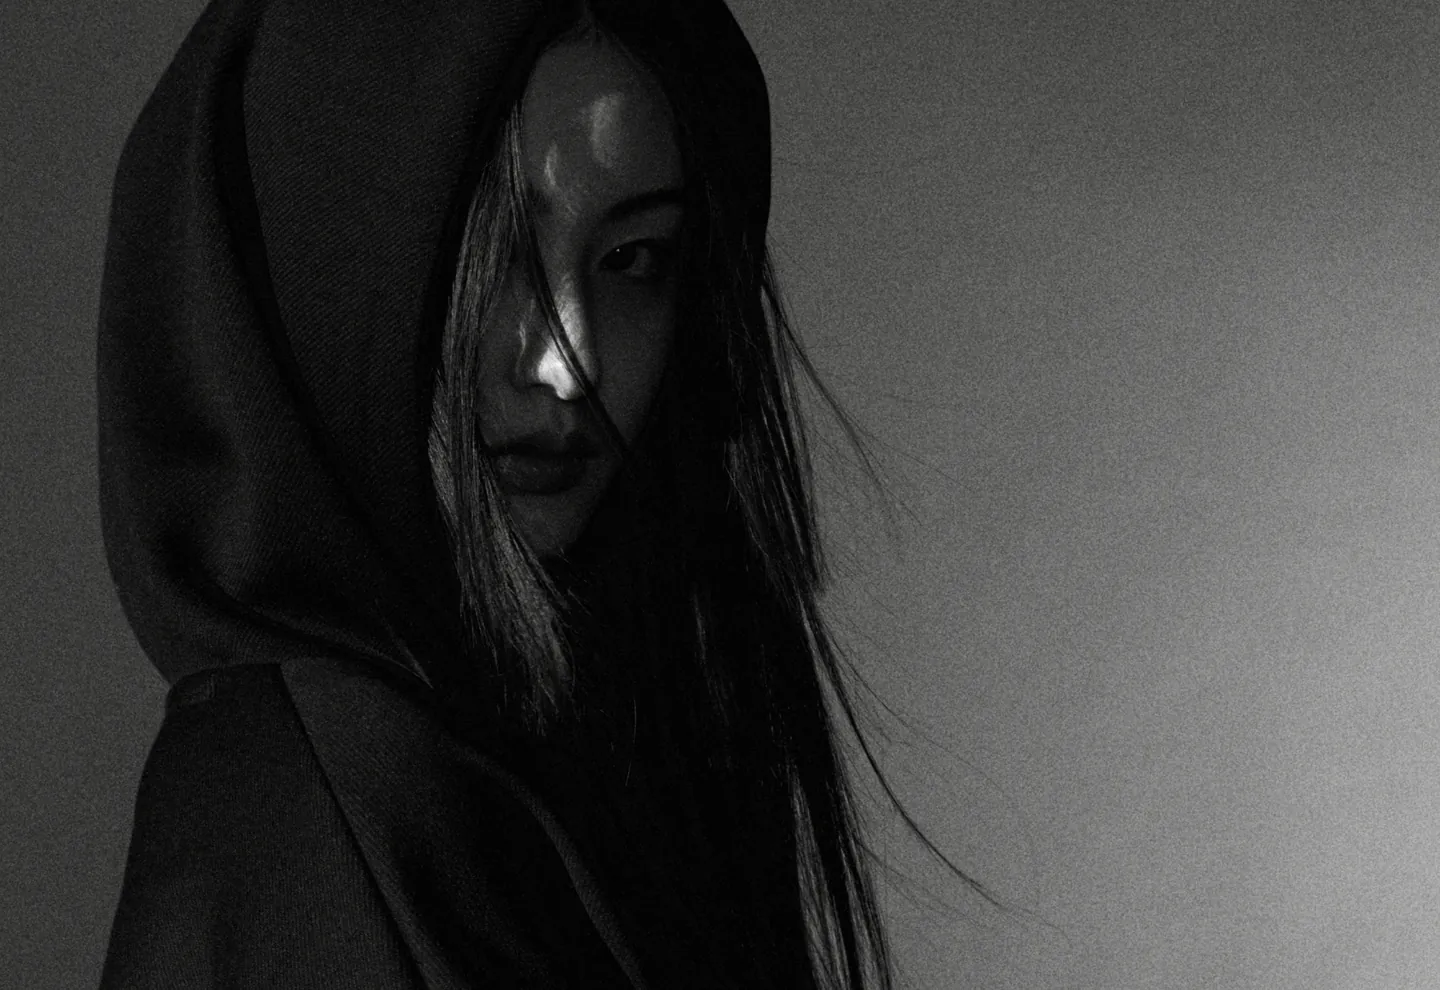
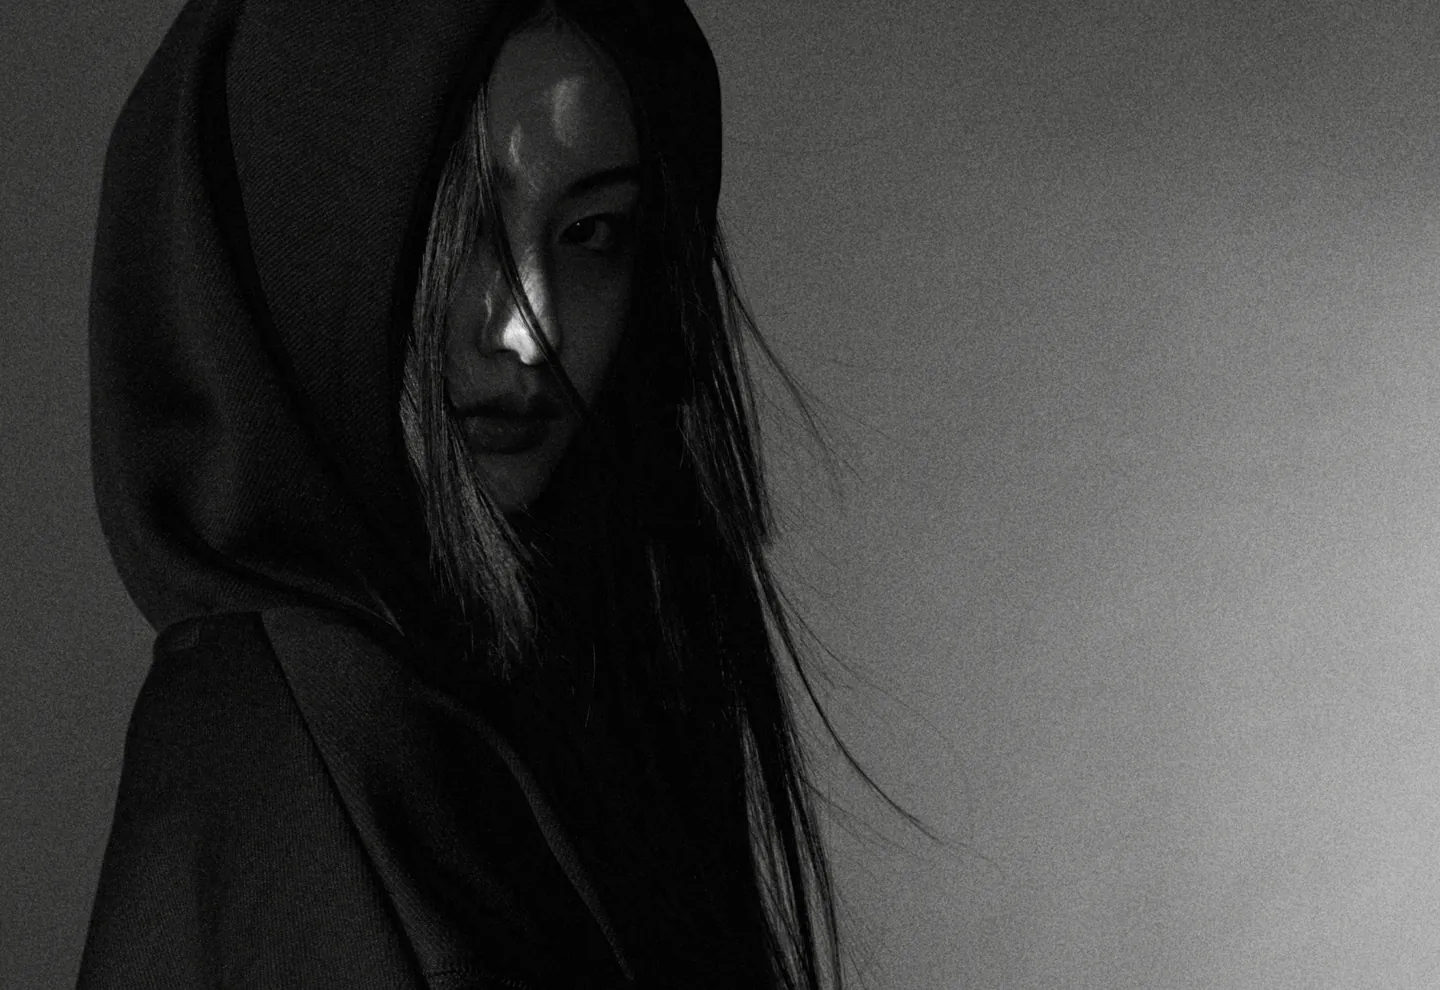
Key visual: new crops for shots 1–4

diff --git a/jp/index.html b/jp/index.html
@@ -45,7 +45,7 @@
   <link rel="stylesheet" href="https://cdn.jsdelivr.net/gh/orioncactus/pretendard@v1.3.9/dist/web/static/pretendard.min.css" />
   <link rel="stylesheet" href="https://fonts.googleapis.com/css2?family=Noto+Sans+JP:wght@400&display=swap" />
   <link rel="stylesheet" href="https://cdn.jsdelivr.net/gh/orioncactus/pretendard@v1.3.9/dist/web/static/pretendard-jp.min.css" />
-  <link rel="stylesheet" href="../style.css?v=20261124132707" />
+  <link rel="stylesheet" href="../style.css?v=20261124132940" />
   <script type="importmap">{ "imports": { "three": "https://unpkg.com/three@0.160.0/build/three.module.min.js" } }</script>
   <script>
     // The intro plays until it has been seen through once in this browsing
@@ -134,7 +134,7 @@
           <img src="../img/kv-slide-1@2x.webp" srcset="../img/kv-slide-1@1x.webp 1440w, ../img/kv-slide-1@2x.webp 2400w" sizes="100vw" width="2400" height="1650" alt="" class="kv__slide" style="--x:55%" fetchpriority="high" />
           <img data-src="../img/kv-slide-2@2x.webp" data-srcset="../img/kv-slide-2@1x.webp 1440w, ../img/kv-slide-2@2x.webp 2400w" sizes="100vw" width="2400" height="1650" alt="" class="kv__slide" style="--x:62%" />
           <img data-src="../img/kv-slide-3@2x.webp" data-srcset="../img/kv-slide-3@1x.webp 1440w, ../img/kv-slide-3@2x.webp 2400w" sizes="100vw" width="2400" height="1650" alt="" class="kv__slide" style="--x:40%" />
-          <img data-src="../img/kv-slide-4@2x.webp" data-srcset="../img/kv-slide-4@1x.webp 1440w, ../img/kv-slide-4@2x.webp 2400w" sizes="100vw" width="2400" height="2082" alt="" class="kv__slide" style="--x:50%" />
+          <img data-src="../img/kv-slide-4@2x.webp" data-srcset="../img/kv-slide-4@1x.webp 1440w, ../img/kv-slide-4@2x.webp 2400w" sizes="100vw" width="2400" height="1650" alt="" class="kv__slide" style="--x:50%" />
           <img data-src="../img/kv-slide-5@2x.webp" data-srcset="../img/kv-slide-5@1x.webp 1440w, ../img/kv-slide-5@2x.webp 2400w" sizes="100vw" width="2400" height="1650" alt="" class="kv__slide" style="--x:55%" />
         </div>
       </div>
@@ -315,7 +315,7 @@
   </main>
 
   <script src="https://cdn.jsdelivr.net/npm/lenis@1.3.26/dist/lenis.min.js"></script>
-  <script src="../main.js?v=20261124132707"></script>
-  <script type="module" src="../intro/intro.js?v=20261124132707" onerror="window.aansSkipIntro && window.aansSkipIntro()"></script>
+  <script src="../main.js?v=20261124132940"></script>
+  <script type="module" src="../intro/intro.js?v=20261124132940" onerror="window.aansSkipIntro && window.aansSkipIntro()"></script>
 </body>
 </html>

diff --git a/kr/index.html b/kr/index.html
@@ -43,7 +43,7 @@
   <link rel="preconnect" href="https://fonts.gstatic.com" crossorigin />
   <link rel="stylesheet" href="https://fonts.googleapis.com/css2?family=Oswald:wght@300;400;500&display=swap" />
   <link rel="stylesheet" href="https://cdn.jsdelivr.net/gh/orioncactus/pretendard@v1.3.9/dist/web/static/pretendard.min.css" />
-  <link rel="stylesheet" href="../style.css?v=20261124132707" />
+  <link rel="stylesheet" href="../style.css?v=20261124132940" />
   <script type="importmap">{ "imports": { "three": "https://unpkg.com/three@0.160.0/build/three.module.min.js" } }</script>
   <script>
     // The intro plays until it has been seen through once in this browsing
@@ -132,7 +132,7 @@
           <img src="../img/kv-slide-1@2x.webp" srcset="../img/kv-slide-1@1x.webp 1440w, ../img/kv-slide-1@2x.webp 2400w" sizes="100vw" width="2400" height="1650" alt="" class="kv__slide" style="--x:55%" fetchpriority="high" />
           <img data-src="../img/kv-slide-2@2x.webp" data-srcset="../img/kv-slide-2@1x.webp 1440w, ../img/kv-slide-2@2x.webp 2400w" sizes="100vw" width="2400" height="1650" alt="" class="kv__slide" style="--x:62%" />
           <img data-src="../img/kv-slide-3@2x.webp" data-srcset="../img/kv-slide-3@1x.webp 1440w, ../img/kv-slide-3@2x.webp 2400w" sizes="100vw" width="2400" height="1650" alt="" class="kv__slide" style="--x:40%" />
-          <img data-src="../img/kv-slide-4@2x.webp" data-srcset="../img/kv-slide-4@1x.webp 1440w, ../img/kv-slide-4@2x.webp 2400w" sizes="100vw" width="2400" height="2082" alt="" class="kv__slide" style="--x:50%" />
+          <img data-src="../img/kv-slide-4@2x.webp" data-srcset="../img/kv-slide-4@1x.webp 1440w, ../img/kv-slide-4@2x.webp 2400w" sizes="100vw" width="2400" height="1650" alt="" class="kv__slide" style="--x:50%" />
           <img data-src="../img/kv-slide-5@2x.webp" data-srcset="../img/kv-slide-5@1x.webp 1440w, ../img/kv-slide-5@2x.webp 2400w" sizes="100vw" width="2400" height="1650" alt="" class="kv__slide" style="--x:55%" />
         </div>
       </div>
@@ -311,7 +311,7 @@
   </main>
 
   <script src="https://cdn.jsdelivr.net/npm/lenis@1.3.26/dist/lenis.min.js"></script>
-  <script src="../main.js?v=20261124132707"></script>
-  <script type="module" src="../intro/intro.js?v=20261124132707" onerror="window.aansSkipIntro && window.aansSkipIntro()"></script>
+  <script src="../main.js?v=20261124132940"></script>
+  <script type="module" src="../intro/intro.js?v=20261124132940" onerror="window.aansSkipIntro && window.aansSkipIntro()"></script>
 </body>
 </html>

diff --git a/index.html b/index.html
@@ -44,7 +44,7 @@
   <link rel="stylesheet" href="https://fonts.googleapis.com/css2?family=Oswald:wght@300;400;500&display=swap" />
   <link rel="stylesheet" href="https://cdn.jsdelivr.net/gh/orioncactus/pretendard@v1.3.9/dist/web/static/pretendard.min.css" />
   <link rel="stylesheet" href="https://fonts.googleapis.com/css2?family=Inter:wght@400&display=swap" />
-  <link rel="stylesheet" href="style.css?v=20261124132707" />
+  <link rel="stylesheet" href="style.css?v=20261124132940" />
   <script type="importmap">{ "imports": { "three": "https://unpkg.com/three@0.160.0/build/three.module.min.js" } }</script>
   <script>
     // The intro plays until it has been seen through once in this browsing
@@ -133,7 +133,7 @@
           <img src="img/kv-slide-1@2x.webp" srcset="img/kv-slide-1@1x.webp 1440w, img/kv-slide-1@2x.webp 2400w" sizes="100vw" width="2400" height="1650" alt="" class="kv__slide" style="--x:55%" fetchpriority="high" />
           <img data-src="img/kv-slide-2@2x.webp" data-srcset="img/kv-slide-2@1x.webp 1440w, img/kv-slide-2@2x.webp 2400w" sizes="100vw" width="2400" height="1650" alt="" class="kv__slide" style="--x:62%" />
           <img data-src="img/kv-slide-3@2x.webp" data-srcset="img/kv-slide-3@1x.webp 1440w, img/kv-slide-3@2x.webp 2400w" sizes="100vw" width="2400" height="1650" alt="" class="kv__slide" style="--x:40%" />
-          <img data-src="img/kv-slide-4@2x.webp" data-srcset="img/kv-slide-4@1x.webp 1440w, img/kv-slide-4@2x.webp 2400w" sizes="100vw" width="2400" height="2082" alt="" class="kv__slide" style="--x:50%" />
+          <img data-src="img/kv-slide-4@2x.webp" data-srcset="img/kv-slide-4@1x.webp 1440w, img/kv-slide-4@2x.webp 2400w" sizes="100vw" width="2400" height="1650" alt="" class="kv__slide" style="--x:50%" />
           <img data-src="img/kv-slide-5@2x.webp" data-srcset="img/kv-slide-5@1x.webp 1440w, img/kv-slide-5@2x.webp 2400w" sizes="100vw" width="2400" height="1650" alt="" class="kv__slide" style="--x:55%" />
         </div>
       </div>
@@ -312,7 +312,7 @@
   </main>
 
   <script src="https://cdn.jsdelivr.net/npm/lenis@1.3.26/dist/lenis.min.js"></script>
-  <script src="main.js?v=20261124132707"></script>
-  <script type="module" src="intro/intro.js?v=20261124132707" onerror="window.aansSkipIntro && window.aansSkipIntro()"></script>
+  <script src="main.js?v=20261124132940"></script>
+  <script type="module" src="intro/intro.js?v=20261124132940" onerror="window.aansSkipIntro && window.aansSkipIntro()"></script>
 </body>
 </html>

diff --git a/intro/intro.js b/intro/intro.js
@@ -1,6 +1,6 @@
 import * as THREE from "three";
-import { VERTEX_SHADER, FRAGMENT_SHADER } from "./shaders.js?v=20261124132707";
-import { loadLogoTexture } from "./logoTexture.js?v=20261124132707";
+import { VERTEX_SHADER, FRAGMENT_SHADER } from "./shaders.js?v=20261124132940";
+import { loadLogoTexture } from "./logoTexture.js?v=20261124132940";
 
 // Intro (Figma A_Intro, 2597:1545), layered over the top of the home page.
 //

diff --git a/intro/logoTexture.js b/intro/logoTexture.js
@@ -1,5 +1,5 @@
 import * as THREE from "three";
-import { signedDistanceField } from "./sdf.js?v=20261124132707";
+import { signedDistanceField } from "./sdf.js?v=20261124132940";
 
 // Rasterizes the logo's SVG path(s) FILLED onto an offscreen canvas, then
 // bakes a real signed distance field from that mask (see sdf.js). The shader
